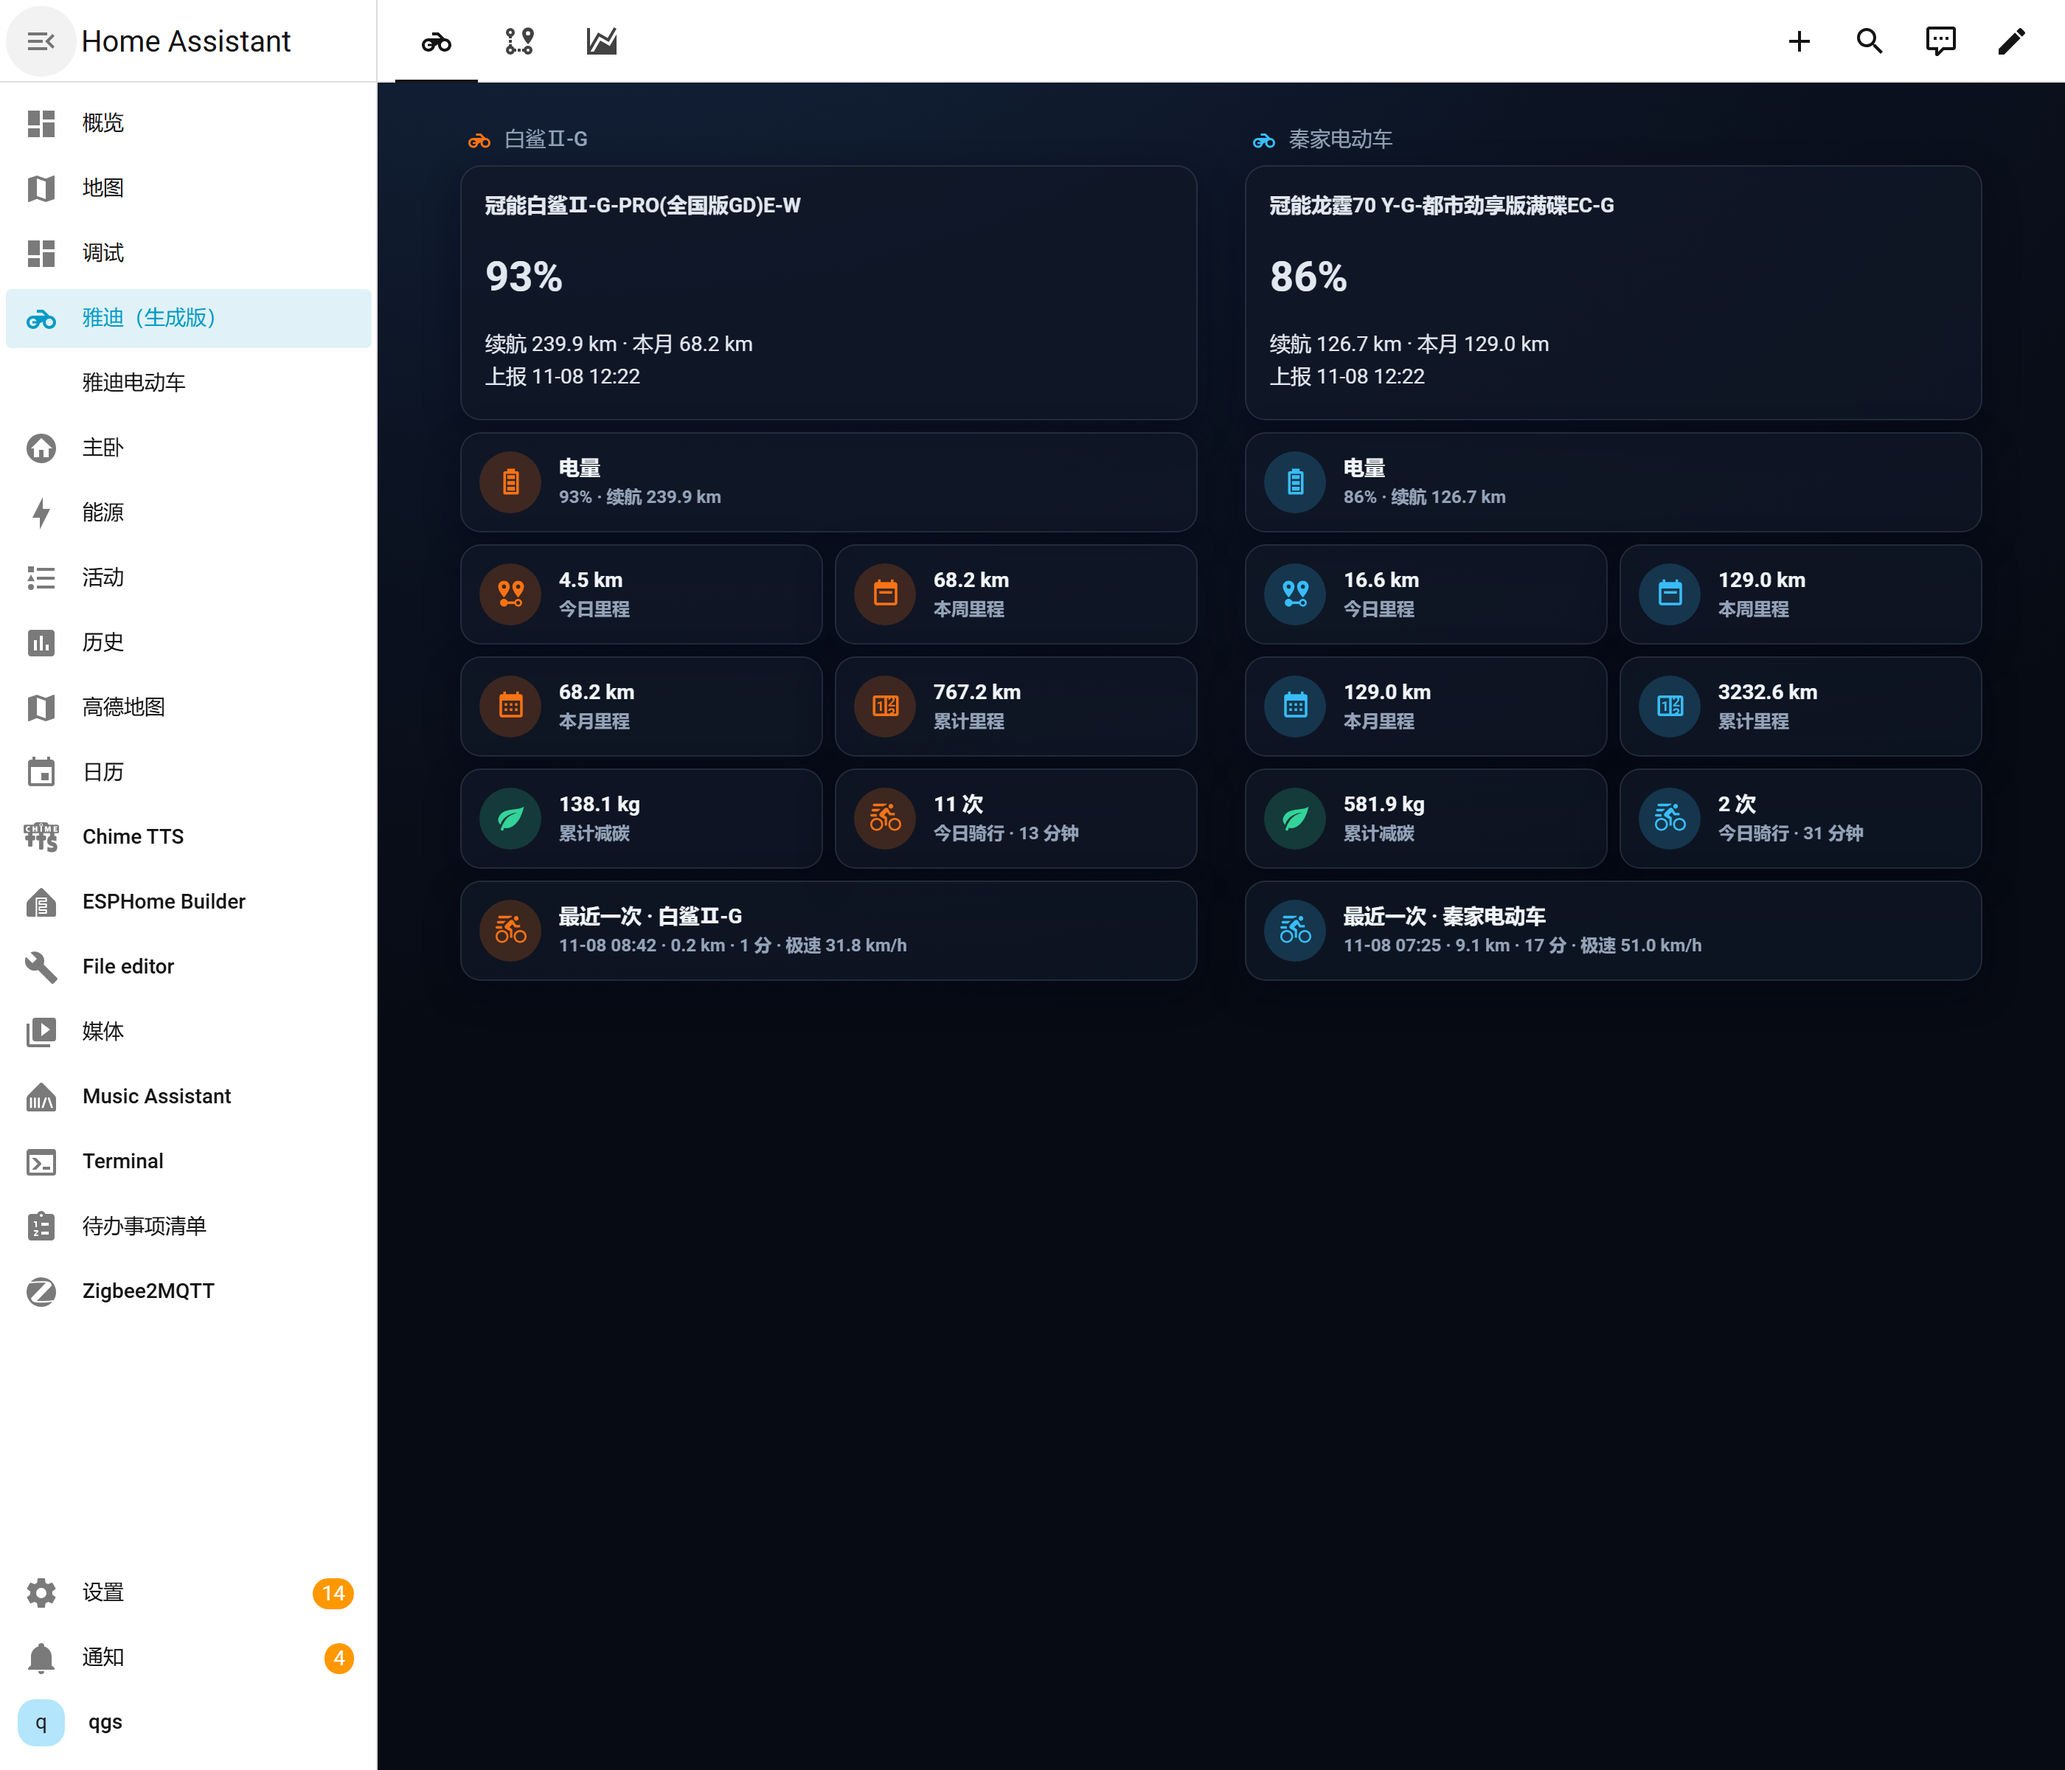
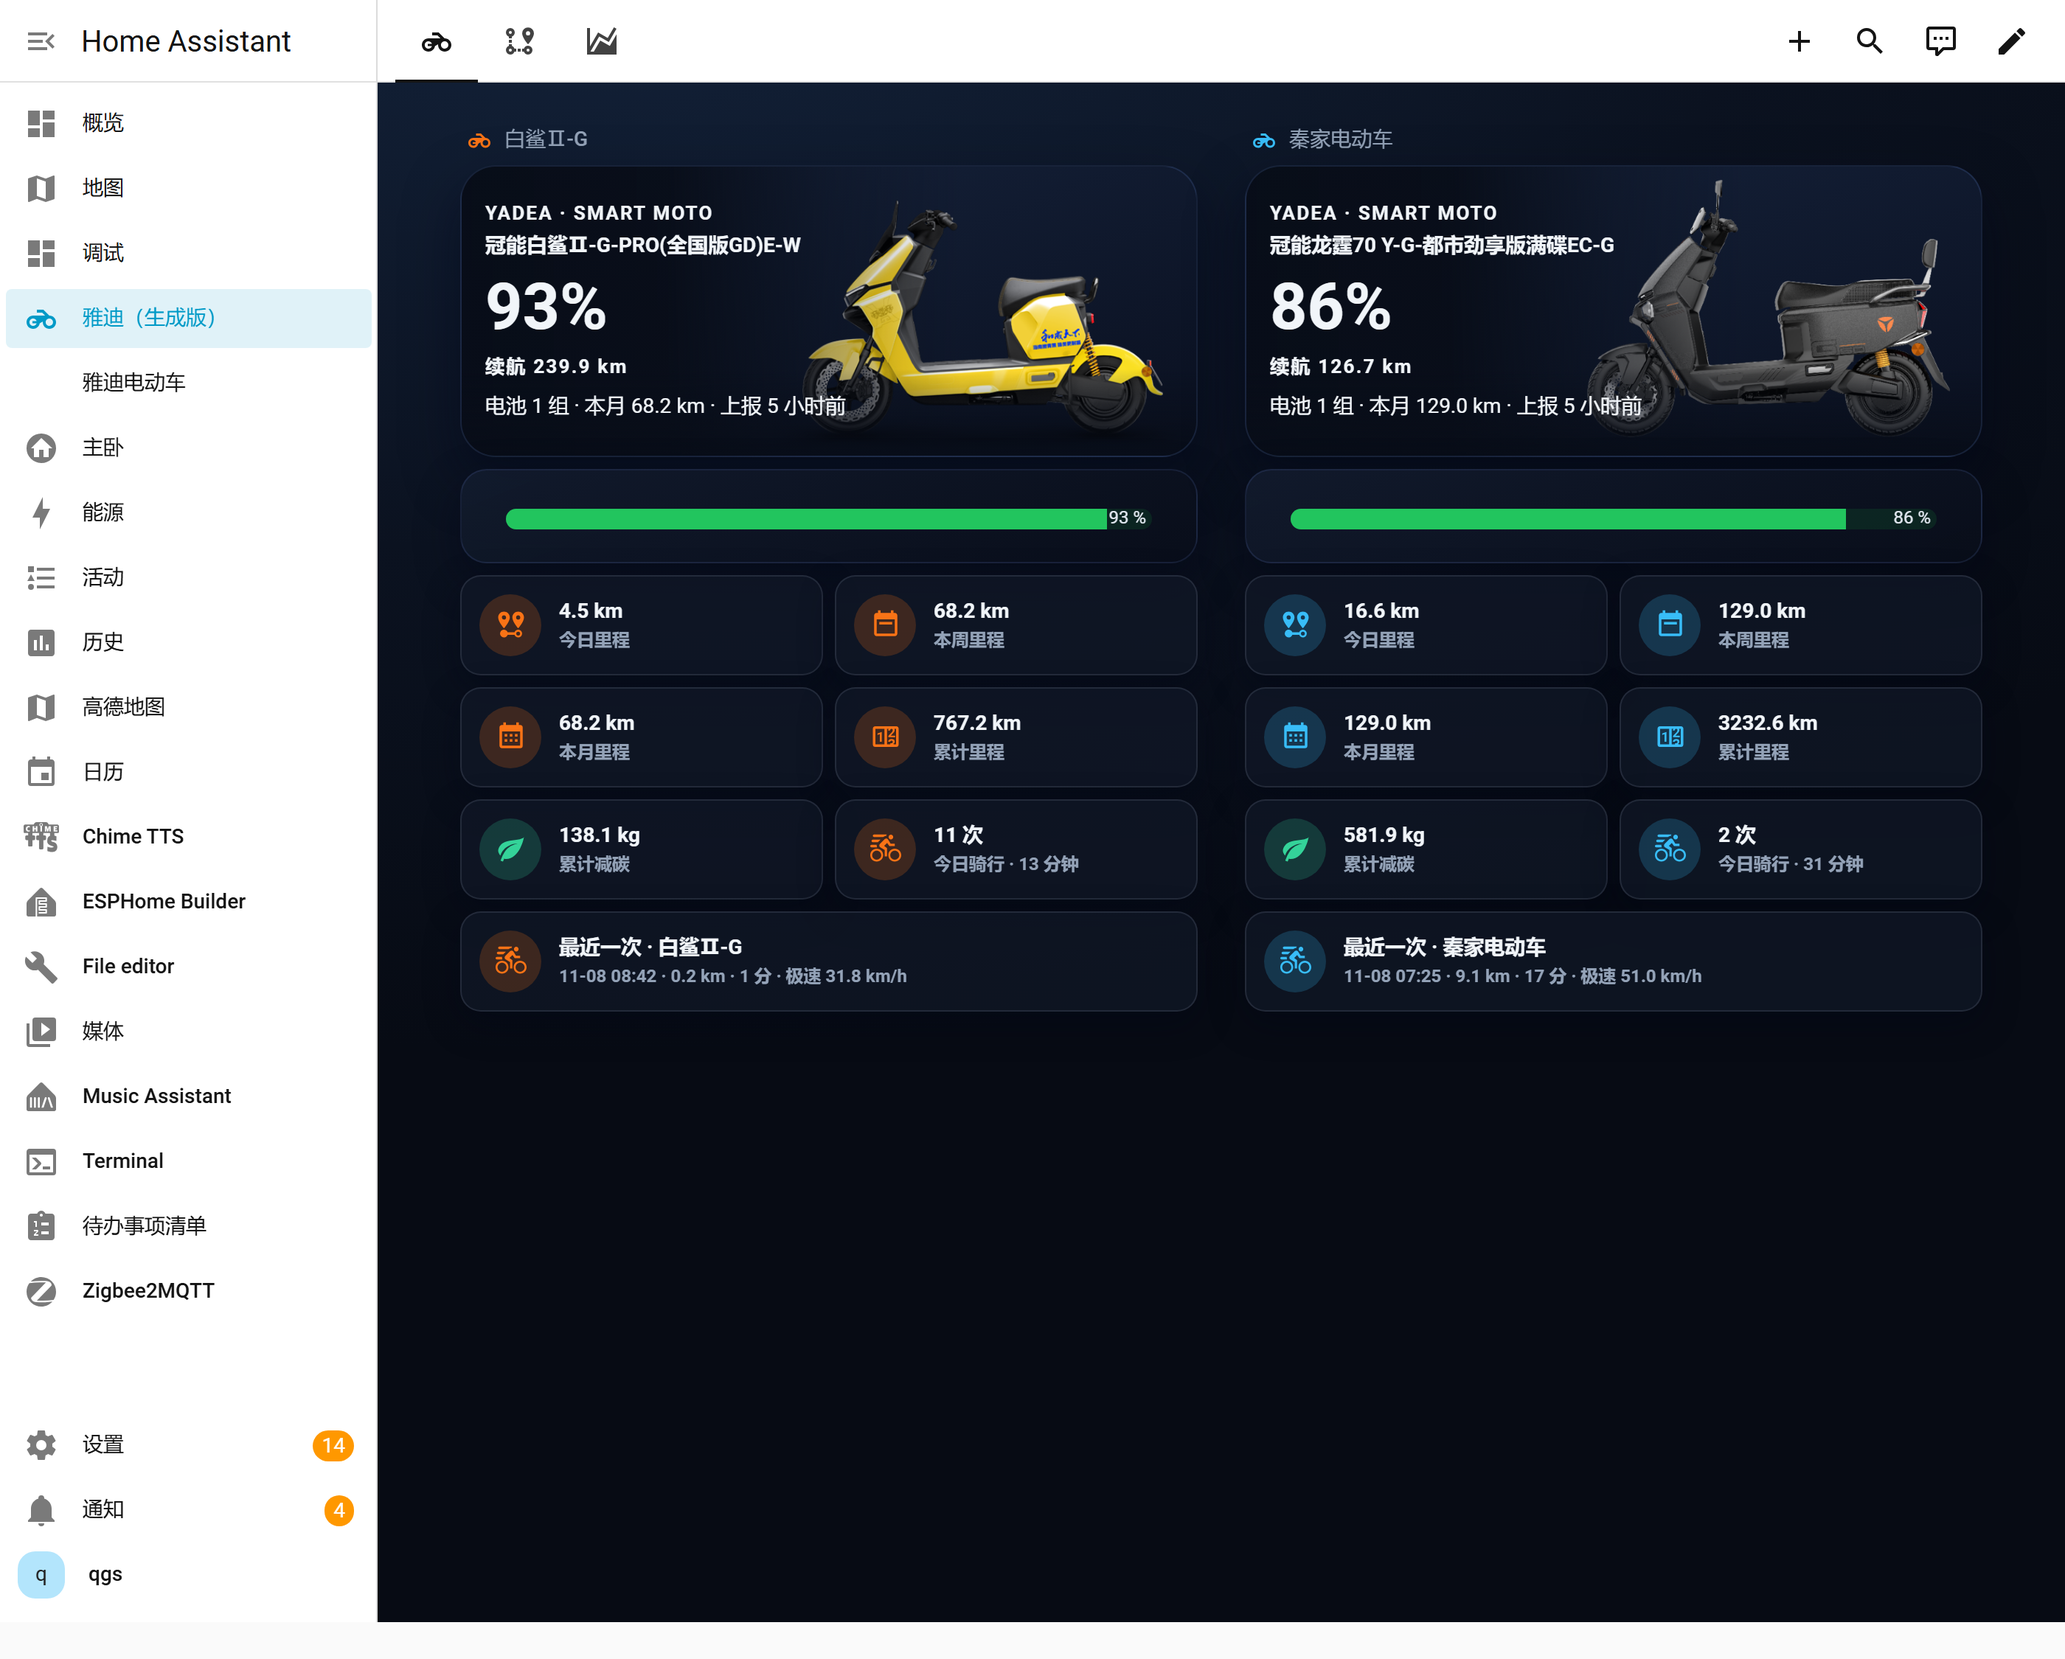
v1.0.2: 总览页车辆信息对齐旗舰版——车辆实拍图头卡 + bar-card 电量长条图
- hero 卡改用旗舰版样式：YADEA · SMART MOTO 头行、44px 电量大数字、相对上报时间，
  背景动态取 sensor.<prefix>_vehicle_info 的 vehicle_image 属性渲染车辆实拍图
- 电量条改用 bar-card（0-20 红 / 20-50 琥珀 / 50-100 绿），未安装 bar-card 时
  自动检测并降级为原 mushroom 电量卡
- 版本号 1.0.2，README 依赖表补充 bar-card（可选）

diff --git a/dist/yadea-dashboard.js b/dist/yadea-dashboard.js
@@ -3,15 +3,16 @@
  *
  * 安装后无需手写 YAML：在「添加仪表盘 → 社区仪表盘」里选择本策略，
  * 会自动发现家中所有雅迪车辆（雅迪集成 v2.0.0+）并生成三套视图：
- *   1. 总览     —— 电量、续航、今日/本周/本月/累计里程
+ *   1. 总览     —— 车辆实拍图、电量长条图、续航、今日/本周/本月/累计里程
  *   2. 骑行轨迹 —— 今日骑行大数字、近 14 天柱状图、最近路线、今日分段明细
  *   3. 能耗档案 —— 充电/耗电统计、车辆档案
  *
- * 依赖前端卡片：card-mod、mushroom、apexcharts-card
+ * 依赖前端卡片：card-mod、mushroom、apexcharts-card；
+ * 可选安装 bar-card，总览页将呈现旗舰版同款电量长条图（未装则自动降级）。
  * 生成后可在仪表盘右上角「接管控制」转为可手动编辑的普通仪表盘。
  */
 
-const VERSION = "1.0.1";
+const VERSION = "1.0.2";
 const ACCENTS = ["#f97316", "#38bdf8", "#a78bfa", "#34d399", "#f472b6", "#facc15"];
 
 const BG =
@@ -176,25 +177,81 @@ function discoverVehicles(hass, config) {
 
 /* ---------------------------------------------------------------- 卡片构造 */
 
-function heroCard(v) {
+function heroCard(hass, v) {
   const battery = eid(v, "battery");
   const range = eid(v, "remaining_range");
   const report = eid(v, "last_report");
   const month = eid(v, "mileage_this_month");
-  const model = v.model || "";
+  const count = eid(v, "battery_count");
 
-  const lines = [];
-  lines.push(model ? `**${model}**\n` : "");
-  lines.push(
-    `# {{ states('${battery}') | int(0) }}%\n`,
-    `续航 {{ states('${range}') }} km · 本月 {{ states('${month}') }} km\n`,
-    `上报 {{ states('${report}') | as_timestamp | timestamp_custom('%m-%d %H:%M', true) }}`
-  );
+  // 车辆实拍图：来自 sensor.<prefix>_vehicle_info 的 vehicle_image 属性（雅迪集成提供）
+  const info = hass.states[eid(v, "vehicle_info")];
+  const img =
+    info && info.attributes && info.attributes.vehicle_image
+      ? String(info.attributes.vehicle_image)
+      : "";
 
-  return mdCard(
-    lines.join(""),
-    `h1 { color: ${v.accent} !important; font-size: 44px !important; margin: 4px 0 6px !important; }`
-  );
+  // 与旗舰版一致的「值或 —」模板
+  const val = (id) =>
+    `{{ (states('${id}') if states('${id}') not in ('unknown', 'unavailable', 'None') else '—') }}`;
+  const rel = (id) =>
+    `{% set ts = as_timestamp(states('${id}')) %}{% if ts > 0 %}` +
+    `{% set d = (as_timestamp(now()) - ts) | int %}` +
+    `{% if d < 3600 %}{{ (d // 60) }} 分钟前` +
+    `{% elif d < 86400 %}{{ (d // 3600) }} 小时前` +
+    `{% else %}{{ (d // 86400) }} 天前{% endif %}{% else %}—{% endif %}`;
+
+  const meta = [
+    hasEntity(hass, count) ? `电池 ${val(count)} 组` : null,
+    hasEntity(hass, month) ? `本月 ${val(month)} km` : null,
+    hasEntity(hass, report) ? `上报 ${rel(report)}` : null,
+  ]
+    .filter(Boolean)
+    .join(" · ");
+
+  const content = [
+    `**YADEA · SMART MOTO**  \n`,
+    v.model ? `**${v.model}**\n` : "",
+    `\n# ${val(battery)}%\n`,
+    `\n**续航 ${val(range)} km**\n`,
+    meta ? `\n${meta}\n` : "",
+  ].join("");
+
+  const bgLayers = [
+    "linear-gradient(0deg, rgba(8,13,24,0.85) 0%, rgba(8,13,24,0) 30%)",
+    "linear-gradient(90deg, rgba(8,13,24,0.99) 0%, rgba(8,13,24,0.95) 28%, rgba(8,13,24,0.30) 50%, rgba(8,13,24,0) 68%)",
+    img ? `url("${img}") right 2px center / contain no-repeat` : null,
+    "linear-gradient(160deg, #16233c 0%, #0a1020 100%)",
+  ]
+    .filter(Boolean)
+    .join(", ");
+
+  const styleDot = [
+    "ha-card {",
+    "  --primary-text-color: #f1f5f9;",
+    "  --secondary-text-color: #94a3b8;",
+    "  min-height: 168px;",
+    "  border-radius: 24px;",
+    "  overflow: hidden;",
+    "  border: 1px solid rgba(120,160,255,0.14);",
+    "  box-shadow: 0 16px 36px rgba(2,6,23,0.50);",
+    `  background: ${bgLayers};`,
+    "}",
+    "ha-markdown { padding: 14px 16px; }",
+    "ha-markdown h1 { margin: 2px 0 4px; letter-spacing: .5px; }",
+  ].join("\n");
+
+  const styleMd = [
+    "h1 { font-size: 44px !important; font-weight: 700 !important; line-height: 1.1 !important; margin: 2px 0 6px !important; }",
+    "p { margin: 0.35em 0 !important; }",
+    "p strong:first-child { letter-spacing: 1.2px; font-size: 92%; }",
+  ].join("\n");
+
+  return {
+    type: "markdown",
+    content,
+    card_mod: { style: { ".": styleDot, "ha-markdown $": styleMd } },
+  };
 }
 
 function statGrid(hass, v) {
@@ -253,8 +310,71 @@ function statGrid(hass, v) {
   return { type: "grid", columns: 2, square: false, cards: items };
 }
 
-function batteryBar(hass, v) {
+/* bar-card 检测：装了就用旗舰版同款电量长条图，没装则降级为普通卡片 */
+function hasBarCardSync() {
+  try {
+    if (customElements.get("bar-card")) return true;
+  } catch (err) {
+    /* ignore */
+  }
+  try {
+    return (window.customCards || []).some((c) => c.type === "bar-card");
+  } catch (err) {
+    return false;
+  }
+}
+
+async function detectBarCard(timeoutMs = 1500) {
+  if (hasBarCardSync()) return true;
+  try {
+    await Promise.race([
+      customElements.whenDefined("bar-card"),
+      new Promise((resolve) => setTimeout(resolve, timeoutMs)),
+    ]);
+  } catch (err) {
+    /* ignore */
+  }
+  return hasBarCardSync();
+}
+
+const BAR_CARD_CSS = [
+  "ha-card {",
+  "  background: linear-gradient(158deg, rgba(18,27,45,0.94) 0%, rgba(9,14,26,0.96) 100%) !important;",
+  "  border: 1px solid rgba(120,160,255,0.12);",
+  "  border-radius: 18px;",
+  "  box-shadow: 0 12px 30px rgba(2,6,23,0.40);",
+  "  padding: 10px 14px 6px;",
+  "  --primary-text-color: #94a3b8;",
+  "}",
+  "bar-card-currentbar, bar-card-backgroundbar { border-radius: 7px; }",
+  "bar-card-name { font-size: 12px; }",
+  "bar-card-value { font-size: 12px; color: #e2e8f0; }",
+  "bar-card-iconbar ha-icon { color: #7dd3fc; }",
+].join("\n");
+
+function batteryBarCard(v) {
+  return {
+    type: "custom:bar-card",
+    entities: [{ entity: eid(v, "battery"), name: `${v.name} 电量`, icon: "mdi:battery-high" }],
+    unit_of_measurement: "%",
+    min: 0,
+    max: 100,
+    height: 14,
+    radius: 7,
+    gravity: false,
+    positions: { icon: "off", indicator: "off", name: "off", value: "inside" },
+    severity: [
+      { color: "#ef4444", from: 0, to: 20 },
+      { color: "#f59e0b", from: 20, to: 50 },
+      { color: "#22c55e", from: 50, to: 100 },
+    ],
+    card_mod: { style: BAR_CARD_CSS },
+  };
+}
+
+function batteryBar(hass, v, hasBar) {
   if (!hasEntity(hass, eid(v, "battery"))) return null;
+  if (hasBar) return batteryBarCard(v);
   return {
     type: "custom:mushroom-template-card",
     grid_columns: 2,
@@ -422,7 +542,7 @@ function profileTable(hass, v) {
 
 /* ------------------------------------------------------------------ 视图 */
 
-function overviewView(vehicles, hass) {
+function overviewView(vehicles, hass, hasBar) {
   return {
     title: "总览",
     path: "overview",
@@ -434,8 +554,8 @@ function overviewView(vehicles, hass) {
       type: "grid",
       cards: [
         headingCard(v.name, "mdi:motorbike", v.accent),
-        heroCard(v),
-        batteryBar(hass, v),
+        heroCard(hass, v),
+        batteryBar(hass, v, hasBar),
         statGrid(hass, v),
         hasEntity(hass, eid(v, "last_ride"))
           ? rideCard(hass, v)
@@ -521,7 +641,8 @@ class YadeaDashboardStrategy extends HTMLElement {
       };
     }
 
-    const views = [overviewView(vehicles, hass)];
+    const hasBar = await detectBarCard();
+    const views = [overviewView(vehicles, hass, hasBar)];
     const hasTrack = vehicles.some((v) =>
       hasEntity(hass, eid(v, "today_mileage"))
     );
@@ -551,7 +672,7 @@ try {
       strategyType: "dashboard",
       name: "雅迪电动车",
       description:
-        "自动发现雅迪车辆，生成总览 / 骑行轨迹 / 能耗档案三套深色视图。依赖 card-mod、mushroom、apexcharts-card。",
+        "自动发现雅迪车辆，生成总览 / 骑行轨迹 / 能耗档案三套深色视图。依赖 card-mod、mushroom、apexcharts-card；可选 bar-card 提供电量长条图。",
       documentationURL: "https://github.com/flyqgs/yadea-dashboard",
     });
   }

diff --git a/README.md b/README.md
@@ -9,7 +9,7 @@
 
 | 视图 | 内容 |
 |---|---|
-| 总览 | 电量大数字、续航、今日/本周/本月/累计里程、累计减碳、最近一次骑行 |
+| 总览 | 车辆实拍图头卡、电量长条图、电量大数字、续航、今日/本周/本月/累计里程、累计减碳、最近一次骑行 |
 | 骑行轨迹 | 今日里程大数字、近 14 天柱状图、最近路线起终点、今日分段明细表 |
 | 能耗档案 | 昨日/7 天充电与耗电、车辆档案（型号/电池/物联网卡） |
 
@@ -39,6 +39,7 @@ strategy:
 | [card-mod](https://github.com/thomasloven/lovelace-card-mod) | 深色卡片样式 |
 | [mushroom](https://github.com/piitaya/lovelace-mushroom) | 统计卡片 |
 | [apexcharts-card](https://github.com/RomRider/apexcharts-card) | 近 14 天柱状图 |
+| [bar-card](https://github.com/custom-cards/bar-card)（可选） | 总览页电量长条图；未安装时自动降级为普通电量卡片 |
 
 以上均可在 HACS / Marketplace 安装。
 
@@ -60,10 +61,10 @@ strategy:
 1. **强制刷新页面**（Ctrl+F5；手机 App 在设置里清除前端缓存或杀掉重开）
 2. 若装在 `config/www/community/yadea-dashboard/`，确认资源 URL 带版本号：
    「设置 → 仪表盘 → 资源」中把该资源的 URL 改为
-   `/local/community/yadea-dashboard/yadea-dashboard.js?v=1.0.1`（版本号随更新递增）
+   `/local/community/yadea-dashboard/yadea-dashboard.js?v=1.0.2`（版本号随更新递增）
 3. 仍不行时重启 HA，再刷新浏览器
 
-模块加载成功后，浏览器控制台会输出 `YADEA-DASHBOARD v1.0.1`，可据此确认版本。
+模块加载成功后，浏览器控制台会输出 `YADEA-DASHBOARD v1.0.2`，可据此确认版本。
 
 ## 里程/轨迹数据说明
 
